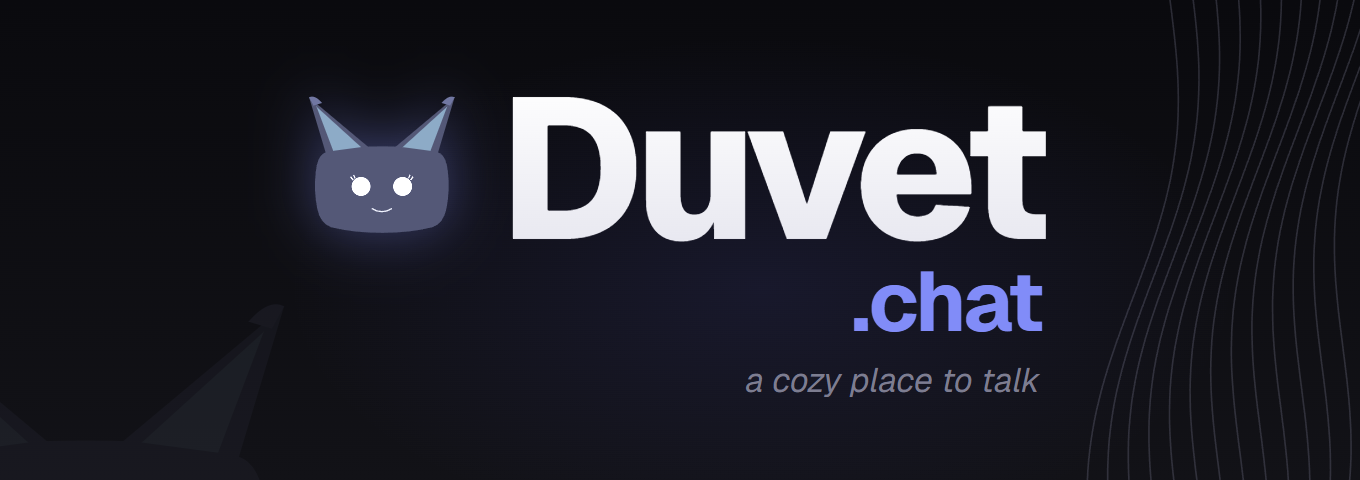
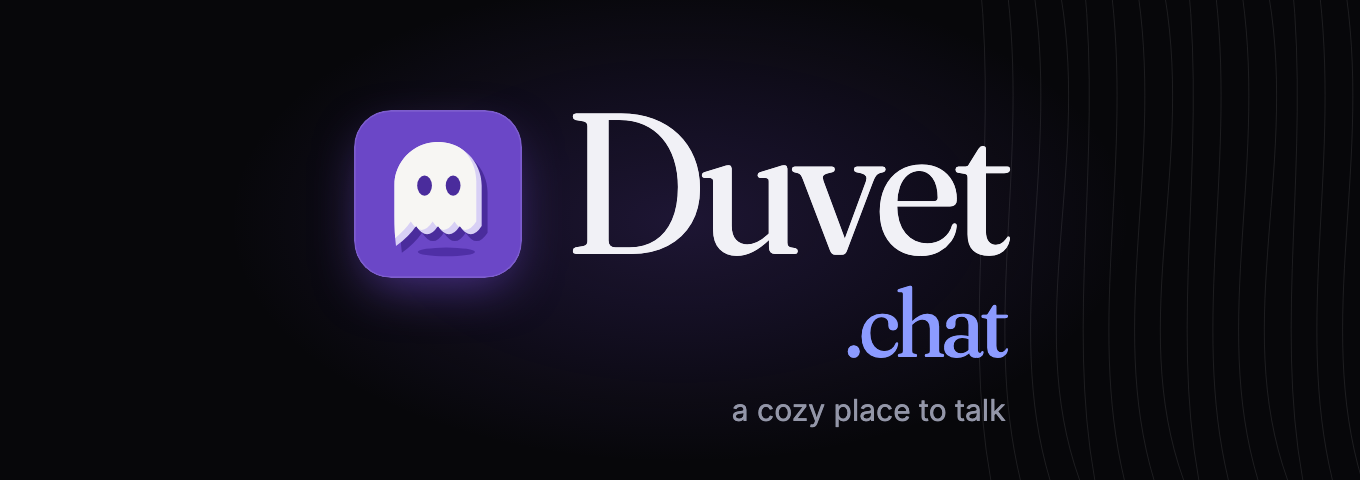
#357: Take the old mark out of the empty places and the link card
The old mark was still drawn in two places besides the icons. The mascot of the app's empty places
(no friends yet, an empty call history, a chat's first line, a voice room nobody is in, the
keyboard's hint) is the Duvet ghost now, the drawing the sign-in pages have, with the same moods.
duvet.chat's link card (opengraph-image.png) has the logo and Duvet's name as the sign-in pages set
it, in the old card's layout and size.

diff --git a/src/mainview/src/lib/components/MascotPeek.svelte b/src/mainview/src/lib/components/MascotPeek.svelte
@@ -1,6 +1,10 @@
 <script lang="ts">
-	import type { MascotMood } from "$lib/components/AuthScene.svelte";
+	import type { MascotMood } from "$lib/auth-form";
+	import AuthMascot from "$lib/components/auth/AuthMascot.svelte";
 
+	// The mascot of the app's empty places (no friends yet, an empty call history, a chat's first line, a voice room
+	// nobody is in, the keyboard's hint): the Duvet ghost, the same drawing the sign-in pages have (AuthMascot), its
+	// eyes open and looking, shut, or one open. Its width comes from the class; its height follows.
 	let {
 		mood = "awake",
 		look = 0,
@@ -11,48 +15,6 @@
 		look?: number;
 		class?: string;
 	} = $props();
-
-	const shift = $derived(Math.max(-1, Math.min(1, look)) * 14);
 </script>
 
-<!-- The mascot as the desktop's icon draws it, its eyes free to move: open and looking, shut, or one open. Shut, they
-     look straight ahead, whatever `look` says. -->
-<svg class={className} viewBox="40 70 432 400" aria-hidden="true" data-mood={mood}>
-	<path
-		d="M100 240Q82 250 78 290Q72 340 82 390Q90 430 120 440Q180 455 256 455Q332 455 392 440Q422 430 430 390Q440 340 434 290Q430 250 412 240Q370 222 256 222Q142 222 100 240Z"
-		fill="#3a3d52"
-	/>
-	<path d="M105 240L60 90L220 224Z" fill="#3a3d52" />
-	<path d="M125 234L80 115L200 224Z" fill="#a8dff0" opacity=".35" />
-	<path d="M407 240L452 90L292 224Z" fill="#3a3d52" />
-	<path d="M387 234L432 115L312 224Z" fill="#a8dff0" opacity=".35" />
-	<g
-		class="transition-[transform] duration-160 ease-[ease] in-data-[mood=peek]:transform-none! in-data-[mood=shy]:transform-none! motion-reduce:transition-none"
-		style="transform: translateX({shift}px)"
-	>
-		<!-- The left eye shuts while peeking, too. -->
-		<g>
-			<circle class="in-data-[mood=peek]:hidden in-data-[mood=shy]:hidden" cx="200" cy="330" r="25" fill="#fff" />
-			<path
-				class="hidden in-data-[mood=peek]:inline in-data-[mood=shy]:inline"
-				d="M178 328Q200 346 222 328"
-				fill="none"
-				stroke="#fff"
-				stroke-width="9"
-				stroke-linecap="round"
-			/>
-		</g>
-		<g>
-			<circle class="in-data-[mood=shy]:hidden" cx="312" cy="330" r="25" fill="#fff" />
-			<path
-				class="hidden in-data-[mood=shy]:inline"
-				d="M290 328Q312 346 334 328"
-				fill="none"
-				stroke="#fff"
-				stroke-width="9"
-				stroke-linecap="round"
-			/>
-		</g>
-	</g>
-	<path d="M230 390Q256 406 282 390" fill="none" stroke="#fff" stroke-width="7" stroke-linecap="round" opacity=".6" />
-</svg>
+<AuthMascot {mood} {look} class="h-auto {className}" />

diff --git a/src/mainview/src/lib/stickers/duvet.ts b/src/mainview/src/lib/stickers/duvet.ts
@@ -1,8 +1,8 @@
 import type { Palette } from "./fun";
 
 /**
- * The kit's colour slots in Duvet's own colours, taken from its mascot: periwinkle bodies, the mascot's slate for dark
- * parts, the ice inside its ears for pale fills and success, its soft red for hearts and alerts, a warm gold for bells.
+ * The kit's colour slots in Duvet's own colours: periwinkle bodies, a slate for dark parts, an ice blue for pale
+ * fills and success, a soft red for hearts and alerts, a warm gold for bells.
  */
 export const duvetPalette: Partial<Palette> = {
 	main: "#7b83f5",
